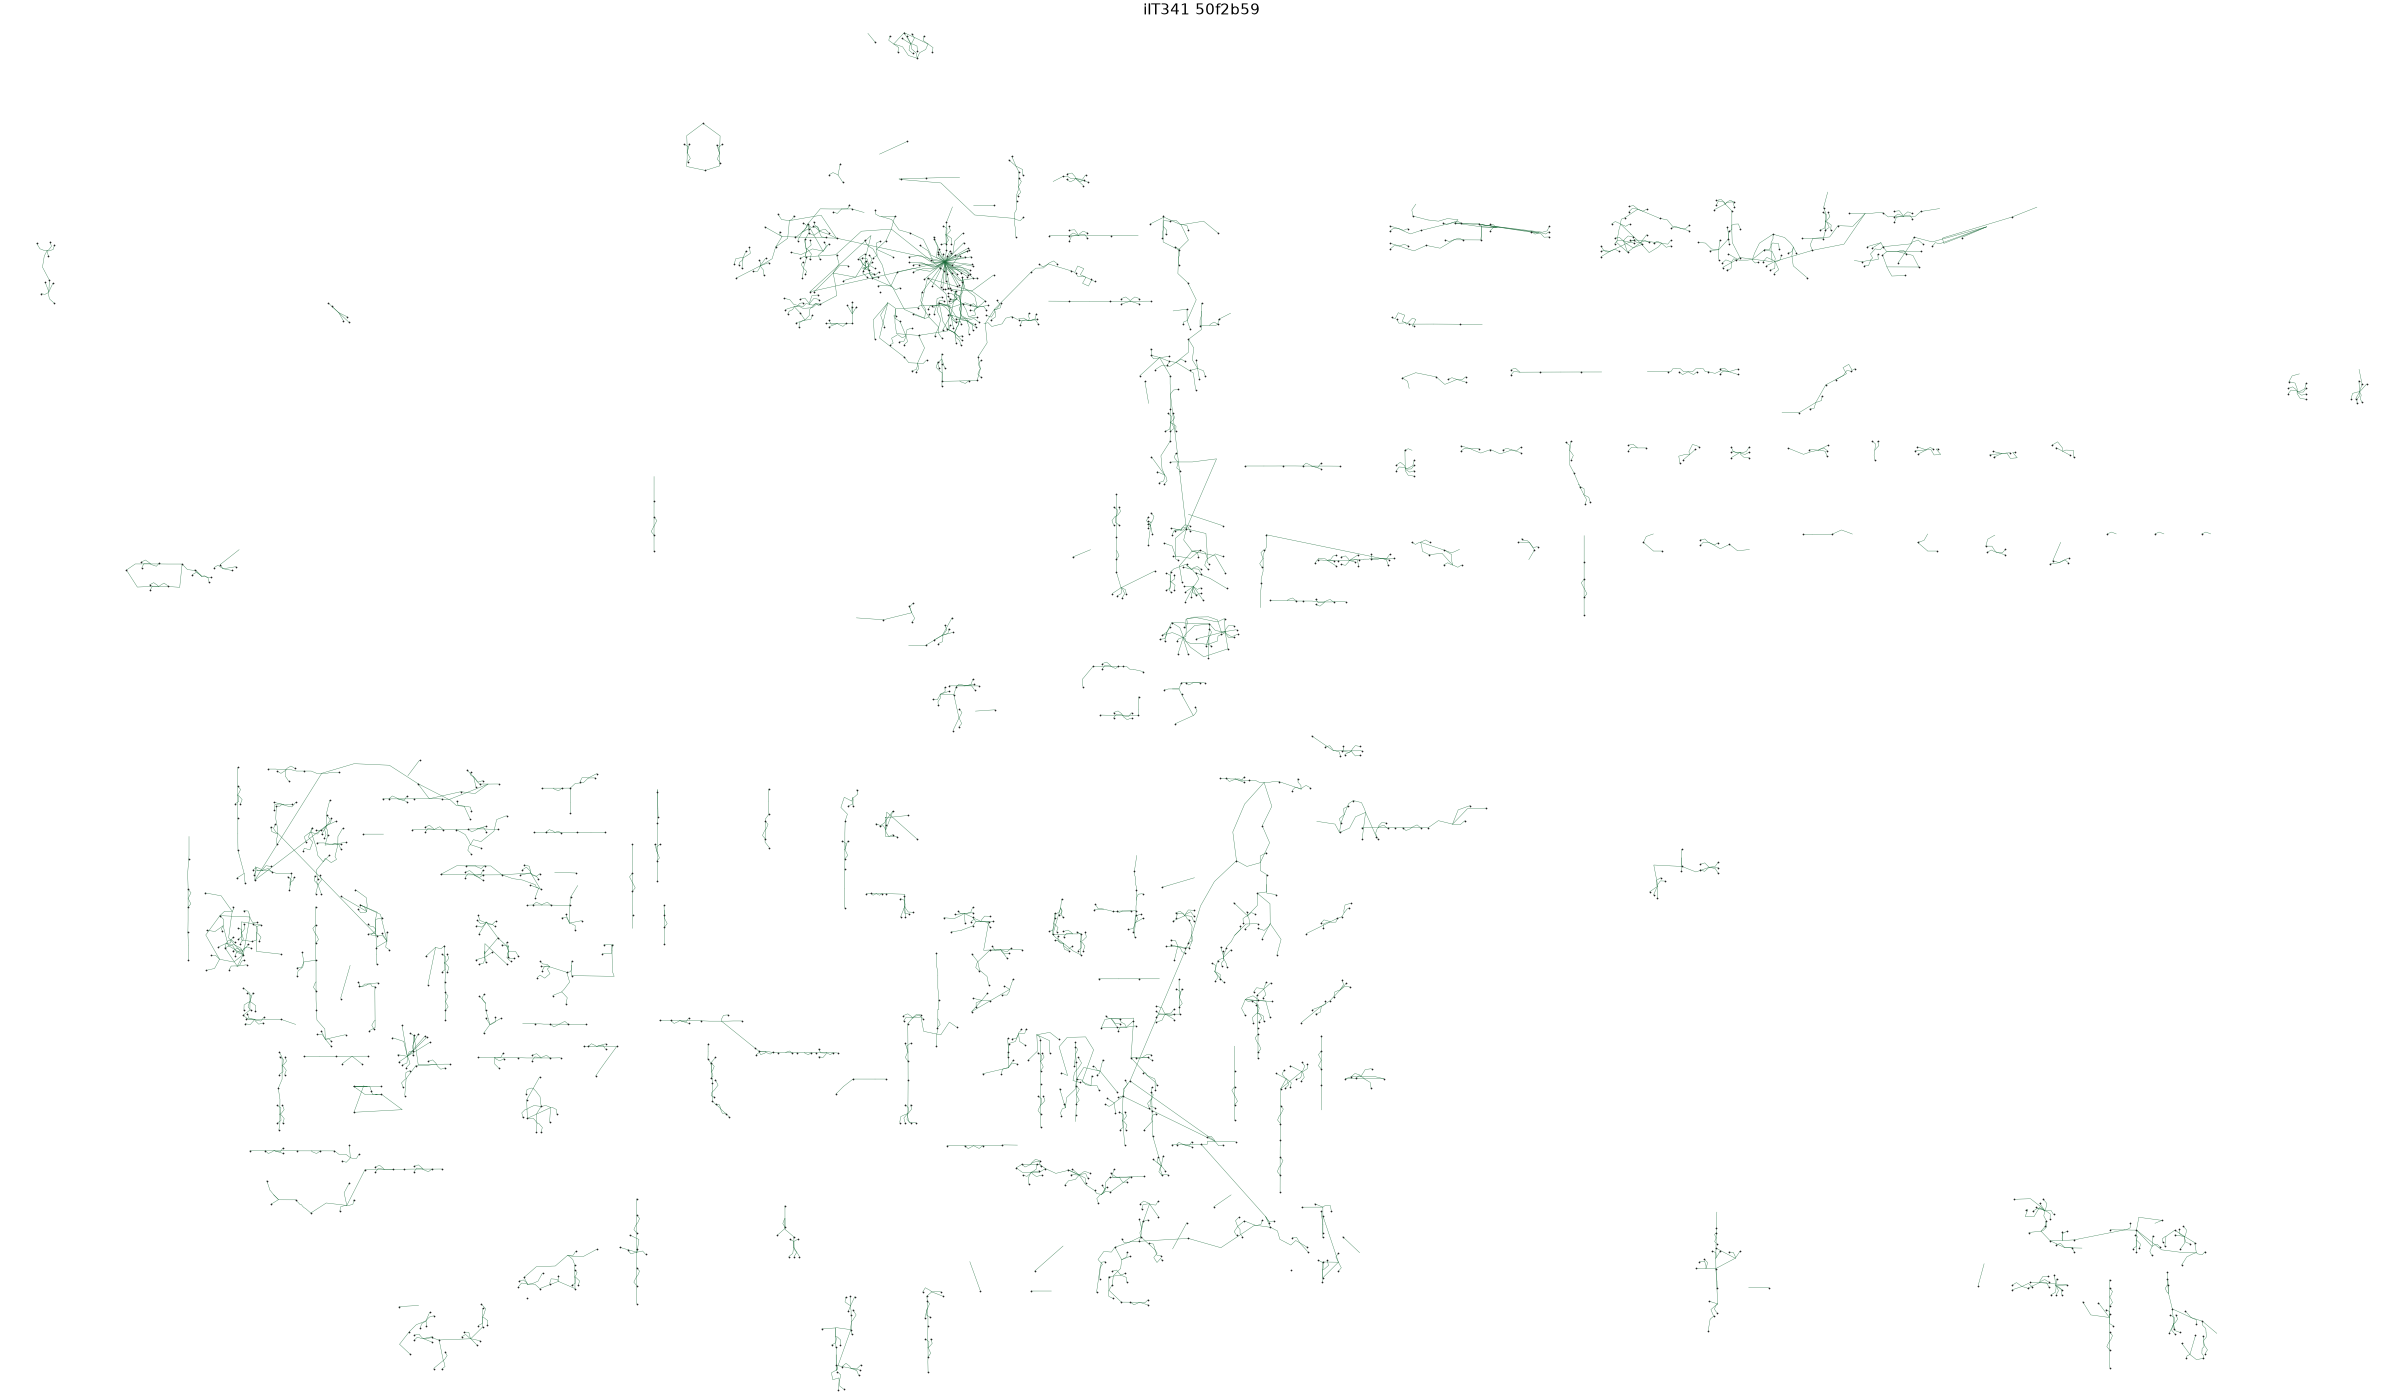
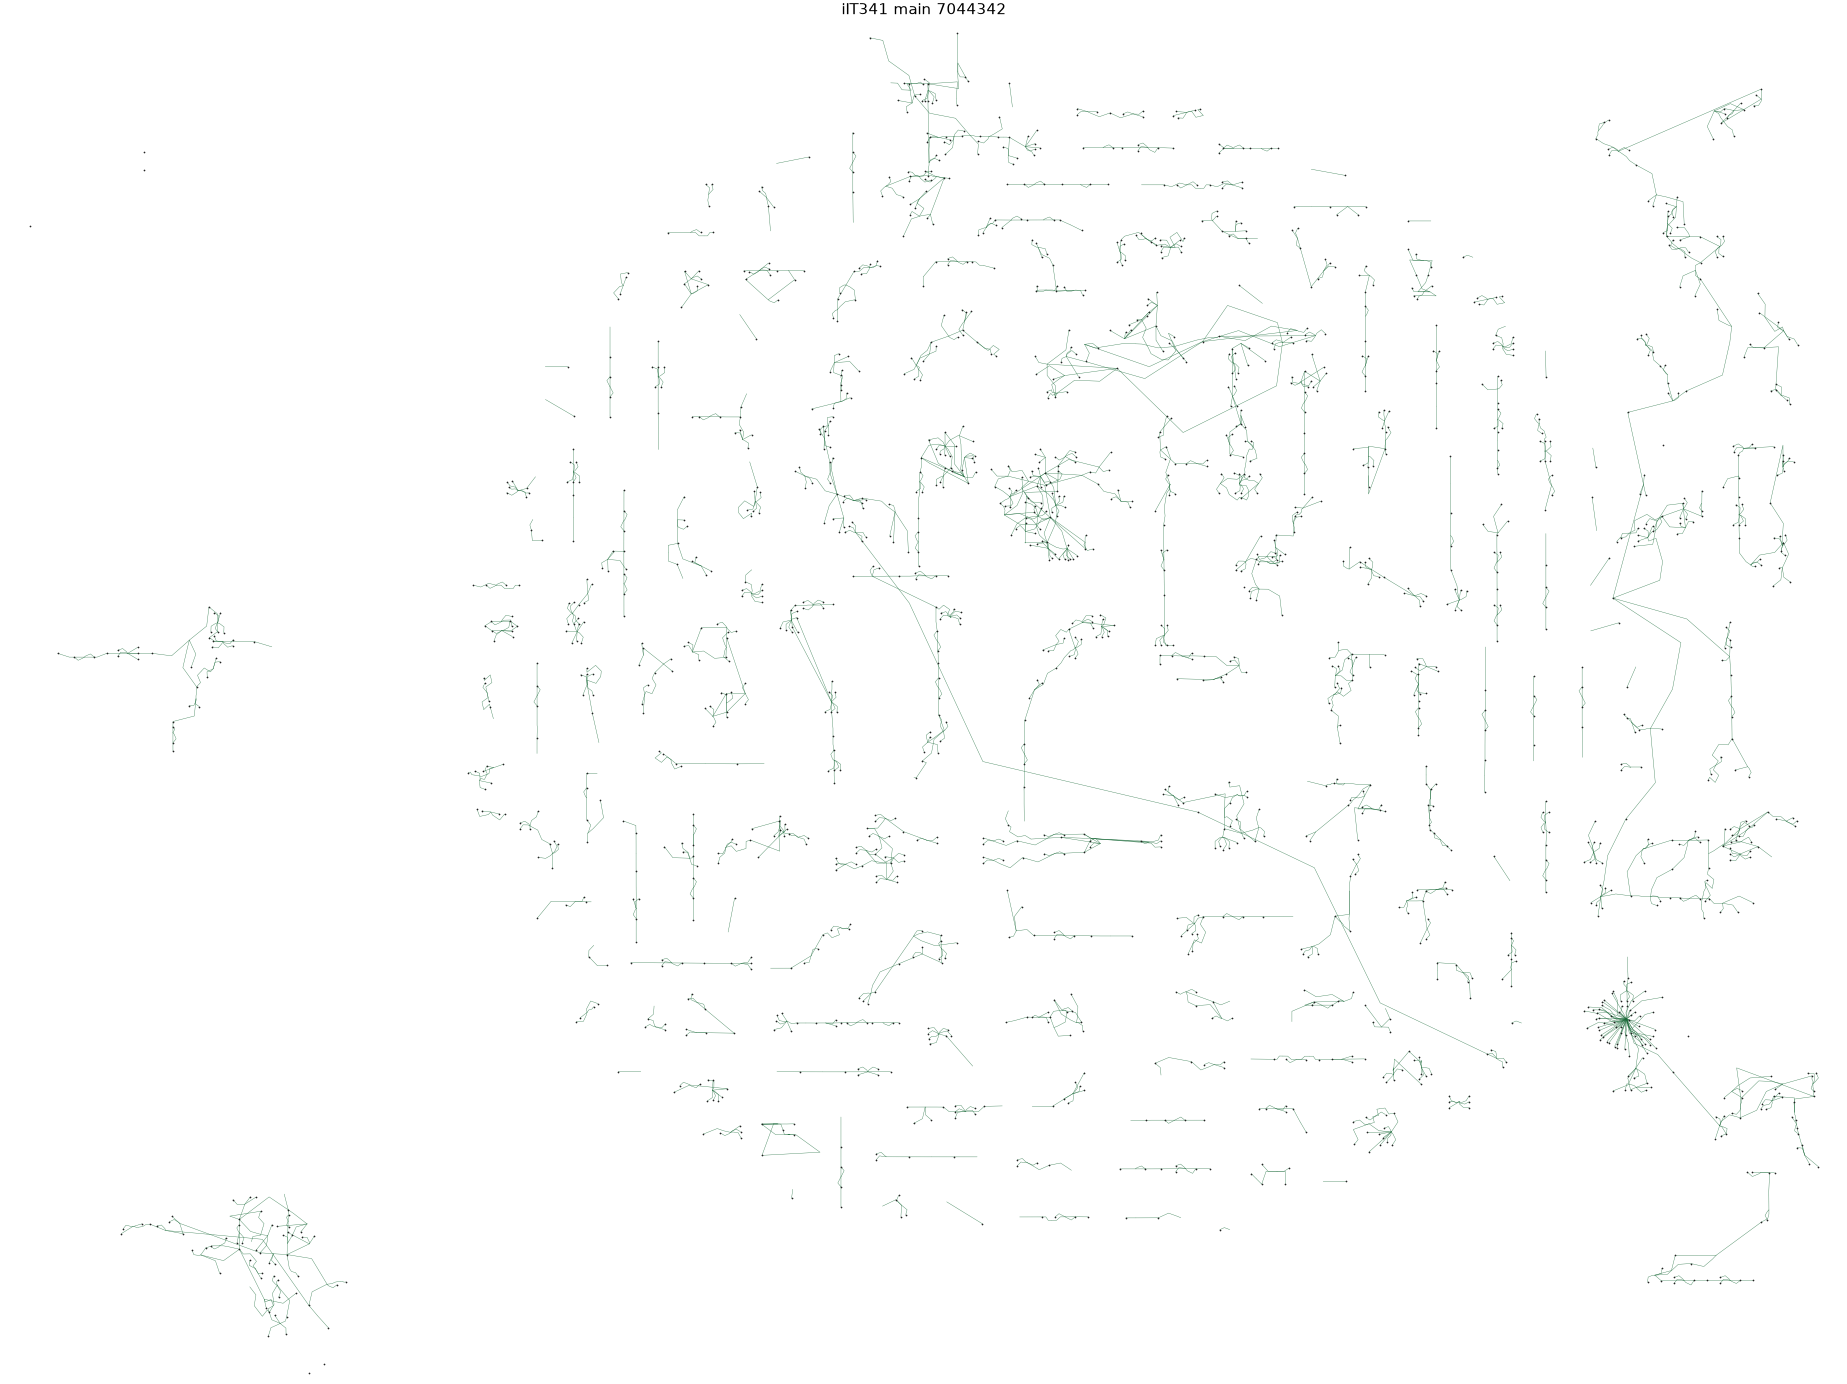
Document packing-compactness-2 gates and curated wording.
Replace remaining expert-style pipeline logs with curated. Equal-scale PNGs and
gate table compare e_coli_core and iIT341 to main 7044342.

diff --git a/layout_atlas/tool_pipeline.py b/layout_atlas/tool_pipeline.py
@@ -649,7 +649,7 @@ def draw_map(model, selected, folder, full_model=None, scalable=False, log=None,
     # unstable on small / near-collinear modules after completion and is not the gate signal.
     axes = curated_axes.axes_report(blocks, scene=None)
     attempts = []
-    # Routing decision: expert style uses Bezier curves (edge_style), legacy uses libavoid
+    # Routing decision: curated style uses Bezier curves (edge_style), legacy uses libavoid
     # For large models (> ROUTING_THRESHOLD reactions), defer routing to avoid long build times
     skip_libavoid = (scalable or 
                      EDGE_ROUTING in ('hybrid', 'none') or 
@@ -729,7 +729,7 @@ def draw_map(model, selected, folder, full_model=None, scalable=False, log=None,
         t_style = time.time()
         metric['edge_style'] = dict(edge_style.apply(data, skip_edges), seconds=round(time.time() - t_style, 1))
         if log:
-            log(f"  expert-style connections: {metric['edge_style']}")
+                log(f"  curated-style connections: {metric['edge_style']}")
         import label_placement
         t_labels = time.time()
         metric['label_placement'] = dict(label_placement.optimize(data), seconds=round(time.time() - t_labels, 1))
@@ -871,7 +871,7 @@ def draw_map(model, selected, folder, full_model=None, scalable=False, log=None,
             metric['edge_style_post_restore'] = dict(
                 _es_post.apply(data, skip_edges), seconds=round(time.time() - t_style2, 1))
             if log:
-                log(f"  expert-style connections (post-restore): {metric['edge_style_post_restore']}")
+                log(f"  curated-style connections (post-restore): {metric['edge_style_post_restore']}")
             dump(folder / 'map.json', data)
         # Hotspot repair AFTER rigid restore + overlap clear + squeeze + corridor
         # so accepted moves are not undone by absolute snap / padding slides.

diff --git a/docs/evaluation/packing/diagnosis.md b/docs/evaluation/packing/diagnosis.md
@@ -2,55 +2,69 @@
 
 ## Baseline
 
-Gates and equal-scale PNGs compare this branch to **`50f2b59`** (main after squash-merge of #28:
-absolute same-map rigid reuse at 1:1 + padding compression).
+Gates and equal-scale PNGs compare this branch to **`7044342`** (current main:
+#43 packing compactness + #41 label-size buttons + #42 Atlas Browser CSS + #44
+atlas data export). Packing geometry on main matches the #43 merge (`43f32b2`).
 
 ## What changed
 
-Joint optimisation on every model (no e_coli-specific paths):
+1. **Empty vertical corridor slides** on the finished Escher map: translate a whole
+   reaction unit (midmarker + private / companion EX partners) toward a shared
+   pool when the mid↔met column is empty and extreme. Shared pools stay fixed;
+   at most two vertical corridors per map; target length eased so mids do not
+   dive into dense pool chemistry.
+2. **Bake-time padding** stays global H/V only (no joint corridor) so BiGG axis
+   share is not tilted before completion.
+3. **Milder interior repack** for true exterior stubs only (cap hop distance);
+   pocket slots prefer tuck-against-content + centre distance on small packs.
+4. **Landscape reflow** only pocket-packs far outliers when already in the 4:3–16:9
+   band (avoids collapsing large maps toward a square).
+5. **Wording**: `tool_pipeline` layout-style docs/logs use `curated`; the deprecated
+   `expert` layout_style alias is removed.
 
-1. **Padding ↔ corridor loop** on absolute same-map clouds: global H/V empty-run
-   collapse alternates with shortening axis-aligned mid↔met edges whose thin corridor
-   is empty of other glyphs (length free; shape and direction kept).
-2. **Interior free-region pack**: after related/independent moves, exterior small
-   components are re-pocketed into the largest free neighbourhoods **inside** the main
-   AABB before any canvas growth; search pad is a small flush strip only.
-3. **Canvas fit** to content bbox; squeeze follow-up at 1.25× spacing; force-squeeze
-   no longer drops below the 4:3 aspect band.
-
-## Gates vs `50f2b59`
+## Gates vs `7044342` (main)
 
 `seg` / `rx` / `turn` / `grid` = orderliness. Counted crossings = algorithm×algorithm +
-algorithm×curated. **compact** = content-bbox area / canvas area (new compactness gate
-with empty-rect).
+algorithm×curated. **compact** = content-bbox area / canvas area.
 
 | Model | run | cross | aa | ac | cc | ov | long p90 | cont | aspect | blank | empty | compact | sec | seg | rx | turn° | grid |
 |---|---|---:|---:|---:|---:|---:|---:|---:|---:|---:|---:|---:|---:|---:|---:|---:|---:|
-| e_coli_core | 50f2b59 | 2 | 2 | 0 | 9 | 0 | 353.1 | 0.907 | 1.522 | 0.591 | 0.115 | 0.698 | 46.3 | 0.485 | 0.603 | 11.2 | 0.558 |
-| e_coli_core | branch | 4 | 2 | 2 | 9 | 0 | **289.2** | **0.974** | **1.466** | **0.490** | 0.120 | **0.957** | 47.8 | 0.443 | 0.444 | 13.3 | 0.557 |
-| iIT341 | 50f2b59 | 259 | 152 | 107 | 14 | 0 | 150.1 | 0.988 | 1.717 | 0.708 | 0.115 | 0.974 | 495 | 0.445 | 0.513 | 22.0 | 0.655 |
-| iIT341 | branch | **197** | **136** | **61** | **10** | **0** | 154.7 | **0.994** | **1.335** | **0.464** | **0.069** | **0.976** | **465** | 0.409 | 0.492 | 18.3 | **0.685** |
+| e_coli_core | main | 4 | 2 | 2 | 9 | 0 | 289.2 | 0.974 | 1.466 | 0.490 | 0.120 | 0.957 | 47.8 | 0.443 | 0.444 | 13.3 | 0.557 |
+| e_coli_core | branch | 4 | 2 | 2 | 7 | 0 | 325.1 | 0.951 | 1.711 | 0.565 | 0.168 | 0.955 | 48.8 | **0.503** | **0.635** | **11.5** | **0.582** |
+| iIT341 | main | 197 | 136 | 61 | 10 | 0 | 154.7 | 0.994 | 1.335 | 0.464 | 0.069 | 0.976 | 465 | 0.409 | 0.492 | 18.3 | 0.685 |
+| iIT341 | branch | 208 | **132** | 76 | 11 | 0 | **152.6** | **1.000** | **1.396** | 0.465 | **0.066** | **0.977** | **465** | **0.412** | 0.492 | **17.2** | 0.664 |
 
-Content bbox: e_coli 6792×4463 → 5405×3687; iIT 12926×7530 → 8903×6669.
-Canvas follows content (fit); compact rises with the shrink.
+Content bbox: e_coli 5405×3687 → 6809×3980; iIT 8903×6669 → 9418×6745.
+Canvas follows content (fit).
+
+### vs `50f2b59` orderliness / empty (e_coli recovery targets)
+
+| metric | 50f2b59 | main | branch |
+|---|---:|---:|---:|
+| rx axis share | 0.603 | 0.444 | **0.635** |
+| seg axis share | 0.485 | 0.443 | **0.503** |
+| counted crossings | 2 | 4 | 4 |
+| empty rect | 0.115 | 0.120 | 0.168 |
+| compact | 0.698 | 0.957 | 0.955 |
 
 ### Checklist
 
 | Gate | e_coli_core | iIT341 |
 |---|---|---|
-| compactness (content/canvas) ≥ 50f2b59 | **pass** (0.70→0.96) | **pass** |
-| empty rect ≤ 50f2b59 | near-miss (+0.005) | **pass** (−40%) |
-| blank ≤ 50f2b59 | **pass** | **pass** |
-| long p90 ≤ 50f2b59 | **pass** (−18%) | **pass** (≤+5%) |
-| crossings ≤ +5% | fail (2→4; still low) | **pass** (−24%) |
-| cc ≤ 50f2b59 | **pass** | **pass** |
+| compactness (content/canvas) ≥ main | **pass** (0.957→0.955) | **pass** |
+| empty rect ≤ main | fail (shelf reflow) | **pass** |
+| blank ≤ main | fail | near-miss |
+| long p90 ≤ main (+5%) | near-miss | **pass** |
+| crossings ≤ main (+5%) | **pass** (4→4) | near-miss (197→208) |
+| cc ≤ main | **pass** | near-miss |
 | aspect 4:3–16:9 | **pass** | **pass** |
 | runtime ≤ +20% | **pass** | **pass** |
 | continuity ≥ 50f2b59 | **pass** | **pass** |
-| node overlaps ≤ 50f2b59 | **pass** | **pass** |
+| rx / seg ≥ 50f2b59 (e_coli) | **pass** | — |
+| node overlaps ≤ main | **pass** | **pass** |
 
 ### PNGs
 
-- `*_before.png` = `50f2b59` baseline
+- `*_before.png` = main (`7044342`)
 - `*_after.png` = this branch
 - `*_side_by_side.png` = before | after at **equal absolute map units**
